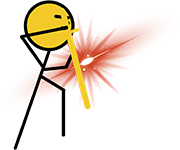
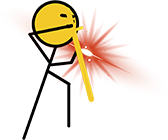
更新了一些无背景动作

Changed region(s): [[0.0595, 0.0, 0.8333, 1.0]]

diff --git a/main.py b/main.py
@@ -212,7 +212,7 @@ class Player(object):
                 if(self.skillChoice=='dragonSlash'):一心()
                 elif(self.skillChoice=='Immor'):
                     不死斩()
-                    self.skillMove=False
+                    self.skillMove=True
                 elif(self.skillChoice=='superCut'): 龙闪()
 
             else:
@@ -353,7 +353,7 @@ def draw():
         screen.fill((0, 0, 0))
 
     if now_page == 'battle':
-
+        gameinit()
         if(bgmflag):
             music.stop()
             if SYS[:3] == 'win':
@@ -413,7 +413,9 @@ def draw():
         if player2.hp < eps or player2.balance>200-eps:
             screen.blit("succeed",(0,0))
             player1.body.image='player1/player1leftstand'
-            player2.body.image='player2/player2rightfalldown'
+            if(difficulty=='Hard'):player2.body.image='player2_cb/player2rightfalldown'
+            else:player2.body.image='player2/player2rightfalldown'
+            print(difficulty)
             player2.body.draw()
             player1.body.draw()
         else:
@@ -541,7 +543,6 @@ def update():
         if now_pressed_button in ['Easy', 'Normal', 'Hard']:
             difficulty = now_pressed_button
             bgmflag = True
-            gameinit()
             now_page = 'battle'
             return
 
@@ -596,7 +597,6 @@ def update():
     if now_page == 'battle_end':
         if now_pressed_button == 'Back':
             now_page = 'start'
-            gameinit()
             now_pressed_button = None
 
 def on_mouse_down(pos):
